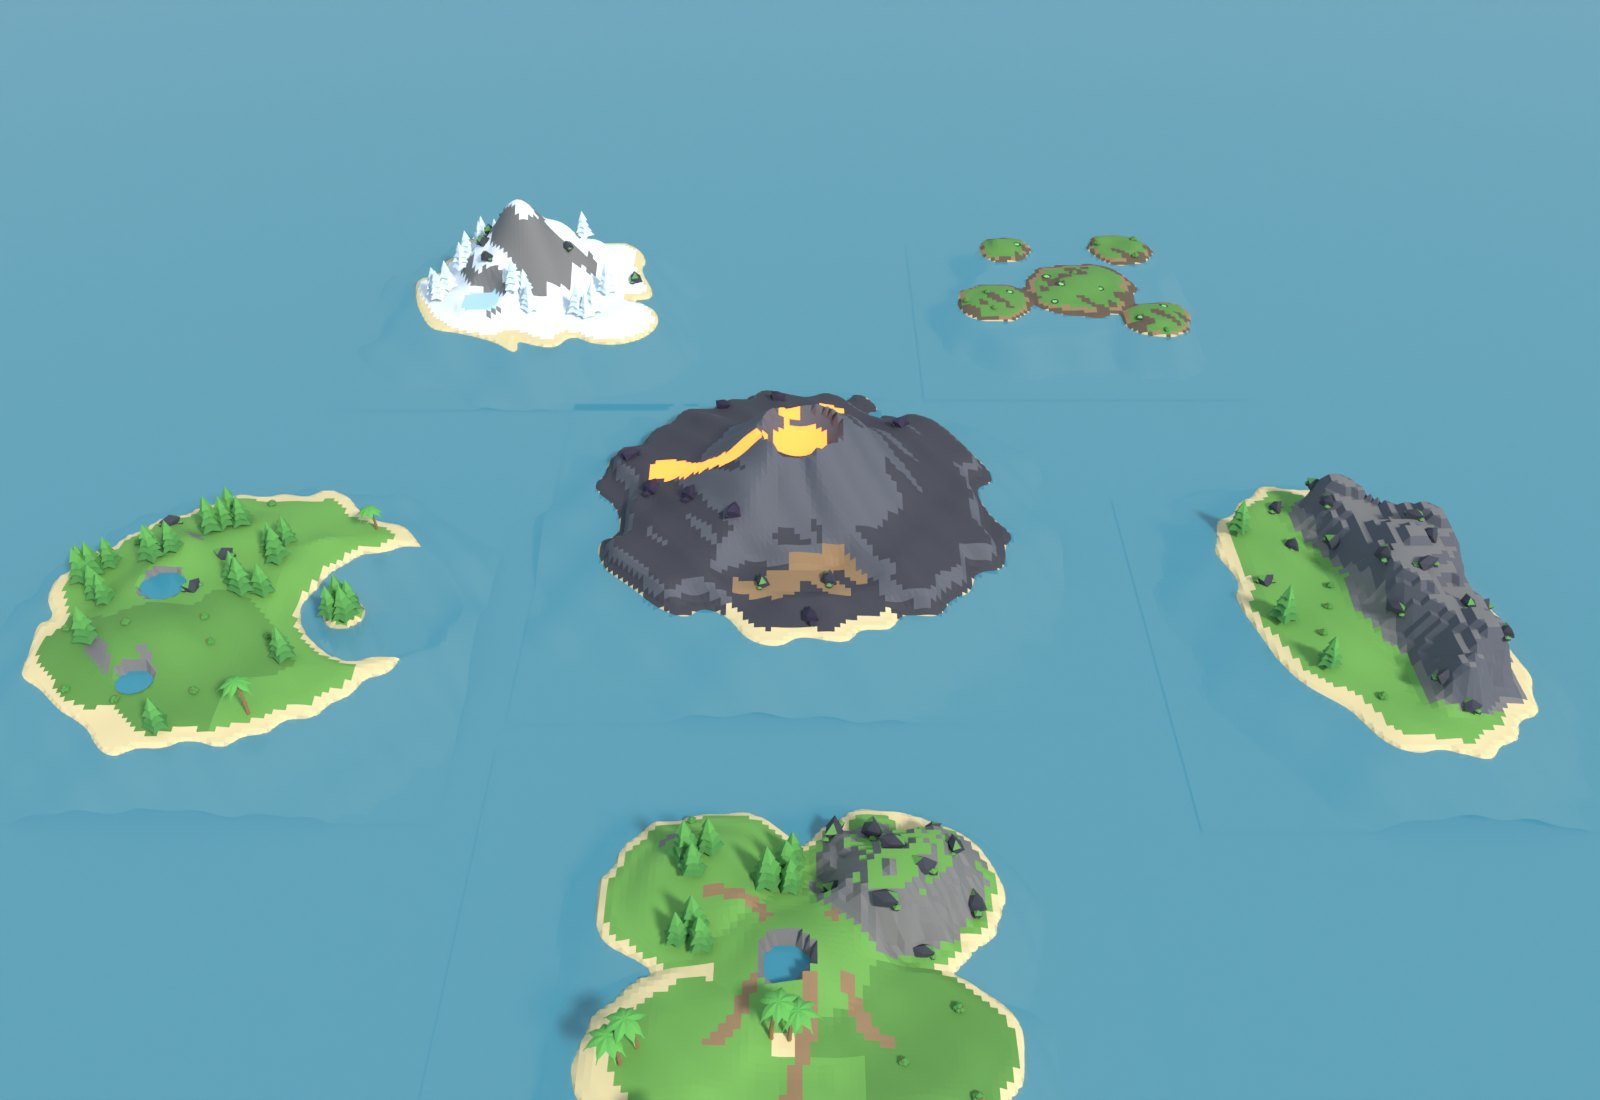
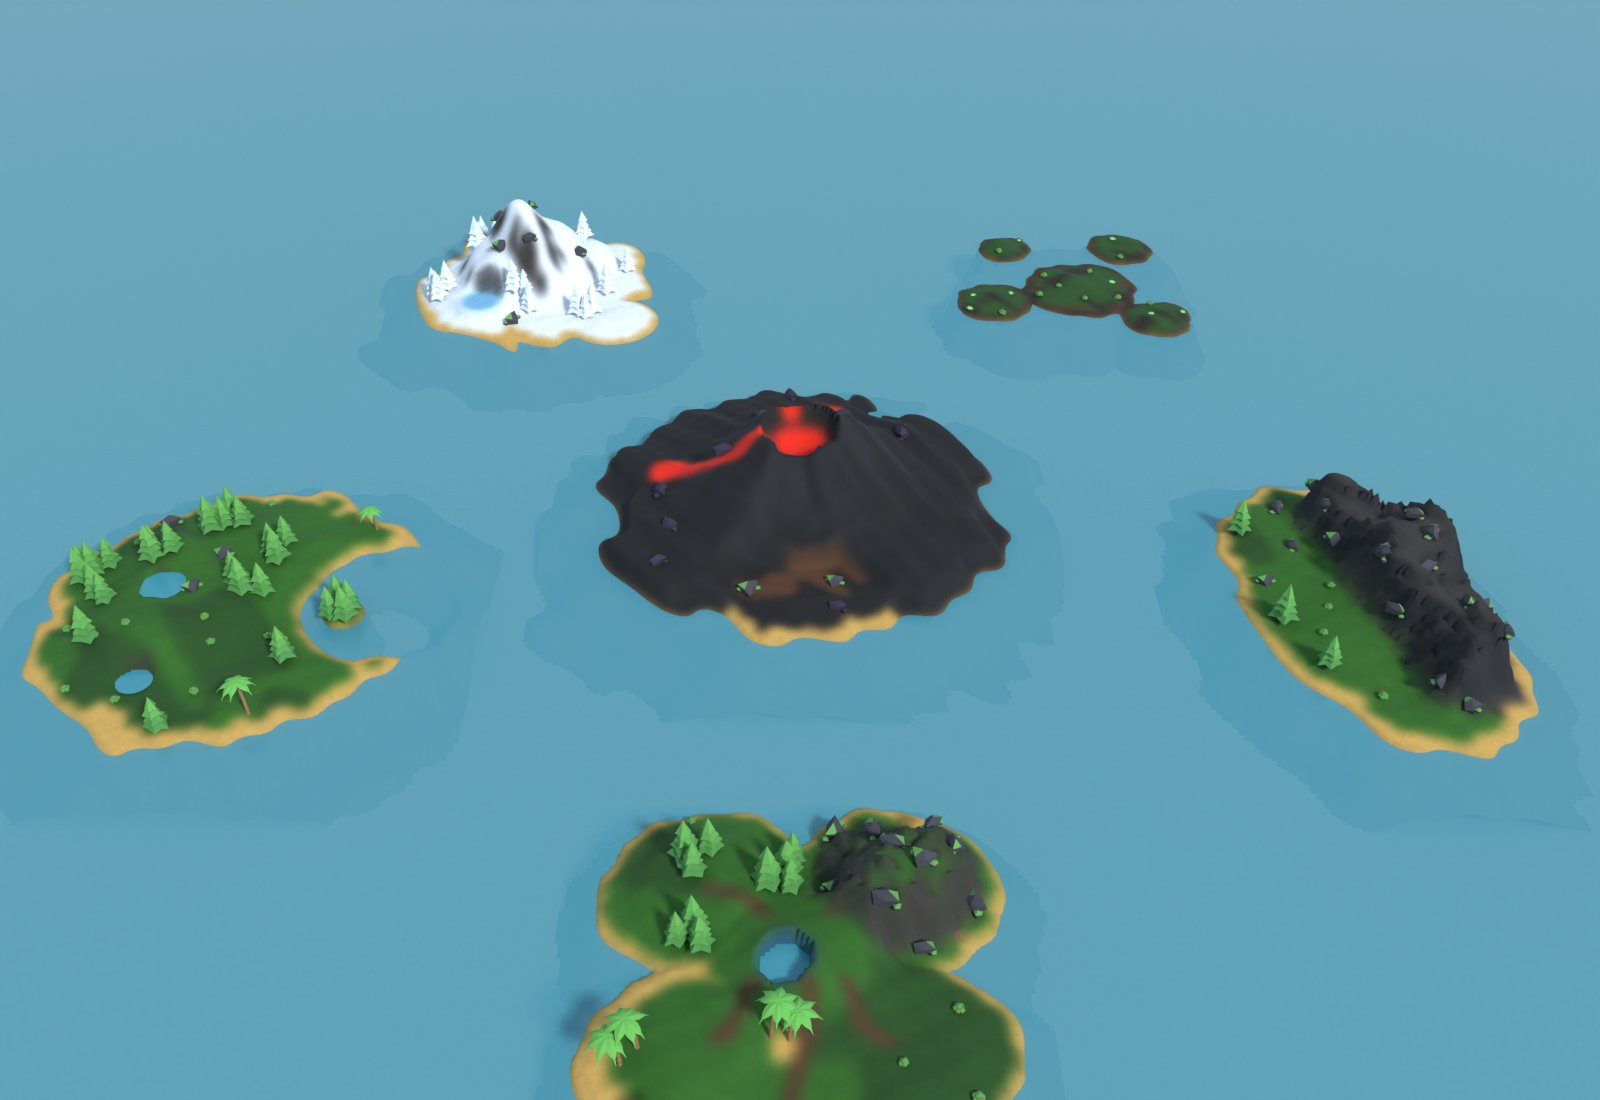
Make island terrain read less blocky
Noisy material edges, small surface bumps, softer terrace and cliff
ledges, mixed Grass/LeafyGrass patches, and animated long grass
(Terrain.Decoration) on every island. Previews now blend material
colours and shade smoothly like Roblox terrain, with ground-level shots.

Claude-Session: https://claude.ai/code/session_01CM2U5WtgqENptg3yY2JkFr

diff --git a/docs/previews/map/scene.py b/docs/previews/map/scene.py
@@ -15,25 +15,79 @@ class Clover:
     def zone(s,x,z): return CL.lobe_of(x,z)
     def can_grow(s,x,z): return CL.land(x,z)>0.1 and CL.path_dist(x,z)>5 and math.hypot(x+6,z-4)>14
 ISL=[(Clover(),0,320),(PineHills(),-300,90),(StoneShelf(),300,90),(FrostIsle(),-190,-265),(SlimeMarsh(),195,-265),(EmberIsle(),0,0)]
-STEP=float(os.environ.get('STEP','3'))
-names=list(M.keys())
+STEP=float(os.environ.get('STEP','2'))
+GRASS=os.environ.get('GRASS','').split(',')
+def lin(c): return tuple((((v/255)+0.055)/1.055)**2.4 for v in c)
+# One terrain material driven by blended vertex colours, like Roblox blends
+# materials between voxels; a little noise breaks up flat colour.
+tm=bpy.data.materials.new('Terrain'); tm.use_nodes=True; nt=tm.node_tree
+bs=nt.nodes['Principled BSDF']; bs.inputs['Roughness'].default_value=0.9
+ca=nt.nodes.new('ShaderNodeVertexColor'); ca.layer_name='Col'
+nz=nt.nodes.new('ShaderNodeTexNoise'); nz.inputs['Scale'].default_value=0.35; nz.inputs['Detail'].default_value=6
+tc=nt.nodes.new('ShaderNodeTexCoord'); nt.links.new(tc.outputs['Object'],nz.inputs['Vector'])
+mr=nt.nodes.new('ShaderNodeMapRange'); mr.inputs['To Min'].default_value=0.82; mr.inputs['To Max'].default_value=1.12
+nt.links.new(nz.outputs['Fac'],mr.inputs['Value'])
+mx=nt.nodes.new('ShaderNodeMix'); mx.data_type='RGBA'; mx.blend_type='MULTIPLY'; mx.inputs['Factor'].default_value=1
+nt.links.new(ca.outputs['Color'],mx.inputs['A'])
+cm=nt.nodes.new('ShaderNodeCombineColor'); nt.links.new(mr.outputs['Result'],cm.inputs[0]); nt.links.new(mr.outputs['Result'],cm.inputs[1]); nt.links.new(mr.outputs['Result'],cm.inputs[2])
+nt.links.new(cm.outputs['Color'],mx.inputs['B']); nt.links.new(mx.outputs['Result'],bs.inputs['Base Color'])
+bp=nt.nodes.new('ShaderNodeBump'); bp.inputs['Strength'].default_value=0.25
+n2=nt.nodes.new('ShaderNodeTexNoise'); n2.inputs['Scale'].default_value=2.5; n2.inputs['Detail'].default_value=8
+nt.links.new(tc.outputs['Object'],n2.inputs['Vector']); nt.links.new(n2.outputs['Fac'],bp.inputs['Height']); nt.links.new(bp.outputs['Normal'],bs.inputs['Normal'])
+grassmat=bpy.data.materials.new('GrassHair'); grassmat.use_nodes=True
+gb=grassmat.node_tree.nodes['Principled BSDF']; gb.inputs['Base Color'].default_value=(*lin((92,150,58)),1); gb.inputs['Roughness'].default_value=0.8
 for isl,cx,cz in ISL:
     x0,x1,z0,z1=isl.bounds
-    nx,nz=int((x1-x0)/STEP)+1,int((z1-z0)/STEP)+1
-    H=[[isl.height(x0+i*STEP,z0+j*STEP) for i in range(nx)] for j in range(nz)]
-    bm=bmesh.new(); V=[[bm.verts.new((cx+x0+i*STEP,-(cz+z0+j*STEP),H[j][i])) for i in range(nx)] for j in range(nz)]
+    nx,nz_=int((x1-x0)/STEP)+1,int((z1-z0)/STEP)+1
+    H=[[isl.height(x0+i*STEP,z0+j*STEP) for i in range(nx)] for j in range(nz_)]
+    C=[[None]*nx for _ in range(nz_)]; G=[[0.0]*nx for _ in range(nz_)]
+    for j in range(nz_):
+        for i in range(nx):
+            h=H[j][i]
+            sl=max(abs(H[j][min(i+1,nx-1)]-H[j][max(i-1,0)]),abs(H[min(j+1,nz_-1)][i]-H[max(j-1,0)][i]))/(2*STEP)
+            m='Seabed' if h<0 else isl.material(x0+i*STEP,z0+j*STEP,h,sl)
+            C[j][i]=lin(MATS[m]); G[j][i]=1.0 if m in ('Grass','LeafyGrass') else 0.0
+    # blend: two passes of a 3x3 average, roughly the width Roblox blends over
+    for _ in range(2):
+        N=[[None]*nx for _ in range(nz_)]; NG=[[0]*nx for _ in range(nz_)]
+        for j in range(nz_):
+            for i in range(nx):
+                acc=[0,0,0]; g=0; n=0
+                for dj in (-1,0,1):
+                    for di in (-1,0,1):
+                        jj,ii=j+dj,i+di
+                        if 0<=jj<nz_ and 0<=ii<nx:
+                            c=C[jj][ii]; acc[0]+=c[0]; acc[1]+=c[1]; acc[2]+=c[2]; g+=G[jj][ii]; n+=1
+                N[j][i]=(acc[0]/n,acc[1]/n,acc[2]/n); NG[j][i]=g/n
+        C,G=N,NG
+    bm=bmesh.new(); V=[[bm.verts.new((cx+x0+i*STEP,-(cz+z0+j*STEP),H[j][i])) for i in range(nx)] for j in range(nz_)]
     me=bpy.data.meshes.new(isl.name); ob=bpy.data.objects.new(isl.name,me); bpy.context.collection.objects.link(ob)
-    for k in names: me.materials.append(M[k])
-    for j in range(nz-1):
+    me.materials.append(tm)
+    col=bm.loops.layers.color.new('Col')
+    for j in range(nz_-1):
         for i in range(nx-1):
-            f=bm.faces.new((V[j][i],V[j][i+1],V[j+1][i+1],V[j+1][i]))
-            hs=[H[j][i],H[j][i+1],H[j+1][i],H[j+1][i+1]]; h=sum(hs)/4
-            x,z=x0+(i+.5)*STEP,z0+(j+.5)*STEP
-            m='Seabed' if h<0 else isl.material(x,z,h,(max(hs)-min(hs))/STEP)
-            f.material_index=names.index(m)
+            if max(H[j][i],H[j][i+1],H[j+1][i],H[j+1][i+1])<-25.5: continue
+            f=bm.faces.new((V[j][i],V[j][i+1],V[j+1][i+1],V[j+1][i])); f.smooth=True
+            for lp,(jj,ii) in zip(f.loops,((j,i),(j,i+1),(j+1,i+1),(j+1,i))):
+                lp[col]=(*C[jj][ii],1)
     bm.to_mesh(me); bm.free()
+    if isl.name in GRASS:
+        vg=ob.vertex_groups.new(name='grass')
+        for j in range(nz_):
+            for i in range(nx):
+                w=G[j][i] if H[j][i]>1.5 else 0
+                if w>0.05: vg.add([j*nx+i],w,'REPLACE')
+        me.materials.append(grassmat)
+        mod=ob.modifiers.new('hair','PARTICLE_SYSTEM'); ps=mod.particle_system; st=ps.settings
+        st.type='HAIR'; st.count=int(float(os.environ.get('GRASSN','120000'))); st.hair_length=1.5; st.material=2
+        st.use_advanced_hair=True; st.use_rotations=True; st.rotation_mode='NOR'; st.child_type='SIMPLE'; st.rendered_child_count=10; st.child_radius=0.9; st.child_length_threshold=0; st.roughness_endpoint=0.25; st.roughness_1=0.15; st.display_step=2; st.render_step=2
+        st.brownian_factor=0.2; st.length_random=0.6
+        ps.vertex_group_density='grass'; ps.vertex_group_length='grass'
+        st.root_radius=0.2; st.tip_radius=0.0; st.radius_scale=1
 # sea + pools
-bpy.ops.mesh.primitive_plane_add(size=3000,location=(0,0,-27)); bpy.context.object.data.materials.append(M['Seabed'])
+bpy.ops.mesh.primitive_plane_add(size=3000,location=(0,0,-26.02)); fl=bpy.context.object.data; fl.materials.append(tm)
+fa=fl.color_attributes.new('Col','FLOAT_COLOR','CORNER')
+for d in fa.data: d.color=(*lin(MATS['Seabed']),1)
 bpy.ops.mesh.primitive_plane_add(size=3000,location=(0,0,0.2)); sea=bpy.context.object
 sm=bpy.data.materials.new('Sea'); sm.use_nodes=True; bb=sm.node_tree.nodes['Principled BSDF']
 bb.inputs['Base Color'].default_value=(0.06,0.32,0.42,1); bb.inputs['Alpha'].default_value=0.72; bb.inputs['Roughness'].default_value=0.15
@@ -128,4 +182,10 @@ for spec in os.environ.get('SHOTS','overview').split(','):
     if spec=='frost': shot('/tmp/arch/frost3d.png',(-110,365,80),(-190,265,22),lens=30)
     if spec=='marsh': shot('/tmp/arch/marsh3d.png',(110,170,85),(195,265,2),lens=30)
     if spec=='ember': shot('/tmp/arch/ember3d.png',(10,-170,70),(0,0,22),lens=28)
+    if spec=='cloverground':
+        gx,gz=54,58; gh=CL.height(gx,gz)
+        shot('/tmp/arch/clover-ground.png',(gx,-(320+gz),gh+12),(-6,-(320+4),CL.height(-6,4)+2),lens=24,res=(1600,1000))
+    if spec=='pineground':
+        gx,gz=-20,60; gh=ISL[1][0].height(gx,gz)
+        shot('/tmp/arch/pine-ground.png',(-300+gx,-(90+gz),gh+14),(-300+gx+10,-(90+gz-70),gh+3),lens=24,res=(1600,1000))
 print('DONE')

diff --git a/docs/previews/map/fields.py b/docs/previews/map/fields.py
@@ -11,6 +11,17 @@ def beach(l):
     if l<=0: return max(-26.0, 1+l*60)
     return 1.5+smooth(l/0.18)*2.5
 def bump(x,z,cx,cz,r,h): return h*math.exp(-((x-cx)**2+(z-cz)**2)/(r*r))
+def grain(x,z):
+    # fine noise that breaks up straight material edges (-1..1)
+    return math.sin(x*0.41+z*0.17)*0.5+math.sin(z*0.37-x*0.23+1.7)*0.5
+def detail(x,z):
+    # small bumps on the ground so slopes are not perfectly smooth (about -0.75..0.75)
+    return (math.sin(x*0.29+z*0.11)*math.cos(z*0.31-x*0.07)+math.sin(x*0.53-z*0.47)*0.5)*0.5
+def grassy(x,z,base='Grass'):
+    # patches of the darker grass inside light grass and the other way round
+    n=noise(x*0.6+90,z*0.6)
+    if base=='Grass': return 'LeafyGrass' if n>1.3 else 'Grass'
+    return 'Grass' if n<-1.3 else 'LeafyGrass'
 def pool_cut(h,x,z,p):
     cx,cz,r,level=p; d=hyp(x-cx,z-cz)
     return min(h,level-(r-d)*0.5) if d<r else h
@@ -32,7 +43,7 @@ class PineHills:
         h+=inland*(2.5+noise(x,z)*1.6)
         for cx,cz,r,hh in ((-48,-30,34,13),(-20,40,30,10),(-60,30,26,9),(5,-62,26,8)):
             h+=inland*bump(x,z,cx,cz,r,hh)
-        return h
+        return h+smooth(l/0.2)*detail(x,z)*0.7
     pools=[(-36,-4,12,None),(-30,62,9,None)]
     def __init__(s):
         s.pools=[(cx,cz,r,s.ground(cx,cz)-0.6) for cx,cz,r,_ in PineHills.pools]
@@ -45,11 +56,11 @@ class PineHills:
         if z+noise(x*0.9,z*0.9)*6>18: return 'meadow'
         return 'forest'
     def material(s,x,z,h,slope):
-        l=s.land(x,z)
-        if l<=0.07 or h<2.6: return 'Sand'
-        if slope>0.9: return 'Rock'
-        if s.zone(x,z)=='meadow': return 'LeafyGrass'
-        return 'Grass'
+        l=s.land(x,z); g=grain(x,z)
+        if l<=0.07+g*0.03 or h<2.6+g*0.5: return 'Sand'
+        if slope>0.9+g*0.15: return 'Rock'
+        if s.zone(x,z)=='meadow': return grassy(x,z,'LeafyGrass')
+        return grassy(x,z)
     def can_grow(s,x,z):
         return s.land(x,z)>0.1 and all(hyp(x-p[0],z-p[1])>p[2]+3 for p in s.pools)
 
@@ -76,9 +87,9 @@ class StoneShelf:
         w=s.ridge(x,z)*smooth((l-0.06)/0.3)
         if w>0:
             hr=h+w*30+noise(x*1.2,z*1.2)*2.5
-            hr=1.5+math.floor((hr-1.5)/5)*5+((hr-1.5)%5)*0.22   # terraces
+            hr=1.5+math.floor((hr-1.5+grain(x,z)*1.5)/6)*6+((hr-1.5)%6)*0.45   # rough ledges
             h=h+(hr-h)*min(1.0,w*1.6)
-        return h
+        return h+smooth(l/0.2)*detail(x,z)*0.7
     def in_cave(s,x,y,z):
         (ax,az),(bx,bz)=s.cave_mouth,s.cave_end
         t=max(0.0,min(1.0,((x-ax)*(bx-ax)+(z-az)*(bz-az))/((bx-ax)**2+(bz-az)**2)))
@@ -92,11 +103,11 @@ class StoneShelf:
         if hyp(x-s.chamber[0],z-s.chamber[1])<s.chamber[2]: return 'cave'
         return 'cliffs' if s.ridge(x,z)>0.45 else 'slope'
     def material(s,x,z,h,slope):
-        l=s.land(x,z)
-        if l<=0.06 or h<2.6: return 'Sand'
-        if s.ridge(x,z)>0.45: return 'Slate' if slope>0.7 else 'Rock'
-        if slope>0.9: return 'Rock'
-        return 'Grass'
+        l=s.land(x,z); g=grain(x,z)
+        if l<=0.06+g*0.03 or h<2.6+g*0.5: return 'Sand'
+        if s.ridge(x,z)>0.45+g*0.08: return 'Slate' if slope>0.7+g*0.15 else 'Rock'
+        if slope>0.9+g*0.15: return 'Rock'
+        return grassy(x,z)
     def can_grow(s,x,z): return s.land(x,z)>0.1 and hyp(x-s.cave_mouth[0],z-s.cave_mouth[1])>18
 
 # ---------------------------------------------------------------- Frost Isle (north-west)
@@ -116,7 +127,7 @@ class FrostIsle:
         h+=inland*(2+noise(x,z)*2)
         h+=inland*40*smooth(1-d/80)**1.4
         h+=inland*smooth(1-d/72)*abs(noise(x*0.8,z*0.8))*5
-        return h
+        return h+smooth(l/0.2)*detail(x,z)*0.7
     def height(s,x,z):
         h=s.ground(x,z); cx,cz,r=s.pond; d=hyp(x-cx,z-cz)
         if d<r+6:
@@ -132,8 +143,9 @@ class FrostIsle:
     def material(s,x,z,h,slope):
         l=s.land(x,z)
         if hyp(x-s.pond[0],z-s.pond[1])<s.pond[2]: return 'Glacier'
-        if l<=0.05 or h<2.2: return 'Sand'
-        if slope>1.5 and h>8: return 'Rock'
+        g=grain(x,z)
+        if l<=0.05+g*0.03 or h<2.2+g*0.5: return 'Sand'
+        if slope>1.5+g*0.2 and h>8: return 'Rock'
         return 'Snow'
     def can_grow(s,x,z): return s.land(x,z)>0.1 and hyp(x-s.pond[0],z-s.pond[1])>s.pond[2]+4
 
@@ -151,7 +163,7 @@ class SlimeMarsh:
             flats=smooth((92+noise(x*0.8,z*0.8)*6-hyp(x,z))/22)     # shallow flats inside the marsh
             return max(-26.0,1+l*60)*(1-flats)+max(-2.5,1+l*14)*flats
         h=1.2+smooth(l/0.25)*1.8+smooth((l-0.2)/0.5)*(1.2+noise(x*1.6,z*1.6)*0.9)
-        return h
+        return h+smooth(l/0.2)*detail(x,z)*0.35
     def zone(s,x,z):
         best,name=-9,'heart'
         for cx,cz,r,n in ISLETS:
@@ -160,7 +172,7 @@ class SlimeMarsh:
         return name
     def material(s,x,z,h,slope):
         l=s.land(x,z)
-        if l<=0.05: return 'Mud'
+        if l<=0.05+grain(x,z)*0.03: return 'Mud'
         if noise(x*2.7+40,z*2.7)>1.1: return 'Mud'
         if l<0.14: return 'Ground'
         return 'LeafyGrass'
@@ -184,6 +196,7 @@ class EmberIsle:
         cone=smooth(1-d/96)**1.5*52
         h+=inland*(cone+3+noise(x*1.5,z*1.5)*1.5)
         h+=(1-s.landing(x,z))*smooth((l-0.02)/0.08)*8     # sea cliffs except at the landing
+        h+=smooth(l/0.2)*detail(x,z)*0.9
         if d<22: h=min(h,40+(d/22)**2*12)  # crater
         t=s.landing(x,z)*smooth((d-58)/8)*smooth((92-d)/8)       # ash terrace
         h=h+(6.5-h)*t if l>0.1 else h
@@ -204,8 +217,9 @@ class EmberIsle:
         d=hyp(x,z); l=s.land(x,z)
         if d<16: return 'CrackedLava'
         if s.stream(x,z)>0: return 'CrackedLava'
-        if l<=0.05 or h<2.4: return 'Basalt' if s.landing(x,z)<0.5 else 'Sand'
+        g=grain(x,z)
+        if l<=0.05+g*0.03 or h<2.4+g*0.5: return 'Basalt' if s.landing(x,z)<0.5 else 'Sand'
         if s.zone(x,z)=='camp' and noise(x*1.8,z*1.8)>0.2: return 'Ground'
-        if slope>0.8: return 'Slate'
+        if slope>0.8+g*0.15: return 'Slate'
         return 'Basalt'
     def can_grow(s,x,z): return s.land(x,z)>0.1 and s.stream(x,z)<=0 and hyp(x,z)>26

diff --git a/docs/previews/clover/field.py b/docs/previews/clover/field.py
@@ -8,6 +8,17 @@ def smooth(a): a=max(0.0,min(1.0,a)); return a*a*(3-2*a)
 def noise(x,z):
     return (math.sin(x*0.071+1.3)*math.cos(z*0.063-0.4)*1.4 + math.sin(x*0.153-z*0.121+2.1)*0.7
             + math.cos(x*0.031+z*0.047)*1.2)
+def grain(x,z):
+    # fine noise that breaks up straight material edges (-1..1)
+    return math.sin(x*0.41+z*0.17)*0.5+math.sin(z*0.37-x*0.23+1.7)*0.5
+def detail(x,z):
+    # small bumps on the ground so slopes are not perfectly smooth (about -0.75..0.75)
+    return (math.sin(x*0.29+z*0.11)*math.cos(z*0.31-x*0.07)+math.sin(x*0.53-z*0.47)*0.5)*0.5
+def grassy(x,z,base='Grass'):
+    # patches of the darker grass inside light grass and the other way round
+    n=noise(x*0.6+90,z*0.6)
+    if base=='Grass': return 'LeafyGrass' if n>1.3 else 'Grass'
+    return 'Grass' if n<-1.3 else 'LeafyGrass'
 def stem(x,z):
     # sandy spit to the south, from z=60 to z=150, 22 wide tapering to 12
     if z < 30 or z > 132: return -9
@@ -58,9 +69,10 @@ def height(x,z):
     wr = lobe_w(x,z,1)                       # NE: terraced rock cliffs
     if wr > 0:
         k = smooth((l-0.1+noise(x*2.3,z*2.3)*0.06)/0.35); hr = h + k*14 + noise(x*1.3,z*1.3)*3
-        hr = 1.5 + math.floor((hr-1.5)/4.5)*4.5 + (hr-1.5)%4.5*0.25
+        hr = 1.5 + math.floor((hr-1.5+grain(x,z)*1.2)/4.5)*4.5 + (hr-1.5)%4.5*0.45
         h += (hr-h)*wr
     h += inland*5*lobe_w(x,z,0)              # NW: higher wooded ground
+    h += smooth(l/0.2)*detail(x,z)*0.7       # small bumps
     ws = stem_w(x,z)                         # south spit stays low
     h += (min(h, 2.6 + l*4) - h)*ws
     # pond on the central hill
@@ -68,12 +80,12 @@ def height(x,z):
     if pd < 11: h = min(h, 10.5 - (11-pd)*0.5)
     return h
 def material(x,z,h,slope):
-    l = land(x,z); lobe = lobe_of(x,z)
-    if l <= 0.07 or (h < 2.6 and lobe != 'stem'): return 'Sand'
+    l = land(x,z); lobe = lobe_of(x,z); g = grain(x,z)
+    if l <= 0.07+g*0.03 or (h < 2.6+g*0.5 and lobe != 'stem'): return 'Sand'
     if math.hypot(x+6, z-4) < 11 and h < 10.6: return 'Water'
-    if lobe_w(x,z,1) > 0.5 and slope > 0.35: return 'Rock'
-    if slope > 0.9: return 'Rock'
-    if path_dist(x,z) < 3.2 and lobe != 'rocks': return 'Ground'
-    if lobe == 'palms' and l < 0.3: return 'Sand'
-    if lobe == 'meadow': return 'LeafyGrass'
-    return 'Grass'
+    if lobe_w(x,z,1) > 0.5 and slope > 0.35+g*0.1: return 'Rock'
+    if slope > 0.9+g*0.15: return 'Rock'
+    if path_dist(x,z) < 3.2+g*0.8 and lobe != 'rocks': return 'Ground'
+    if lobe == 'palms' and l < 0.3+g*0.05: return 'Sand'
+    if lobe == 'meadow': return grassy(x,z,'LeafyGrass')
+    return grassy(x,z)
